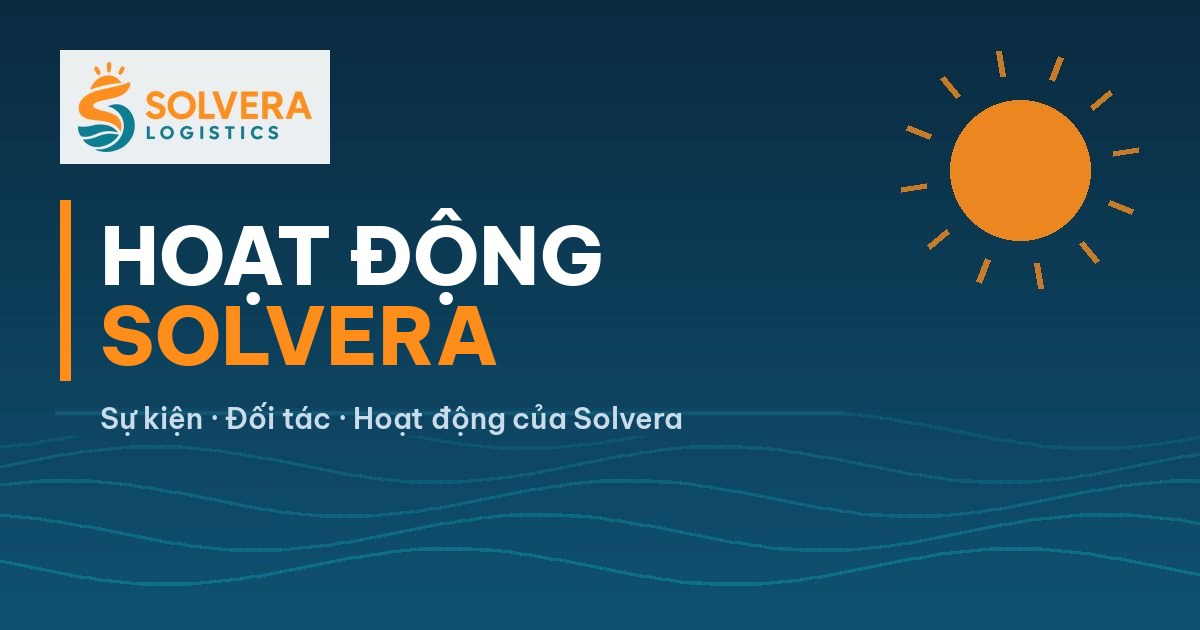
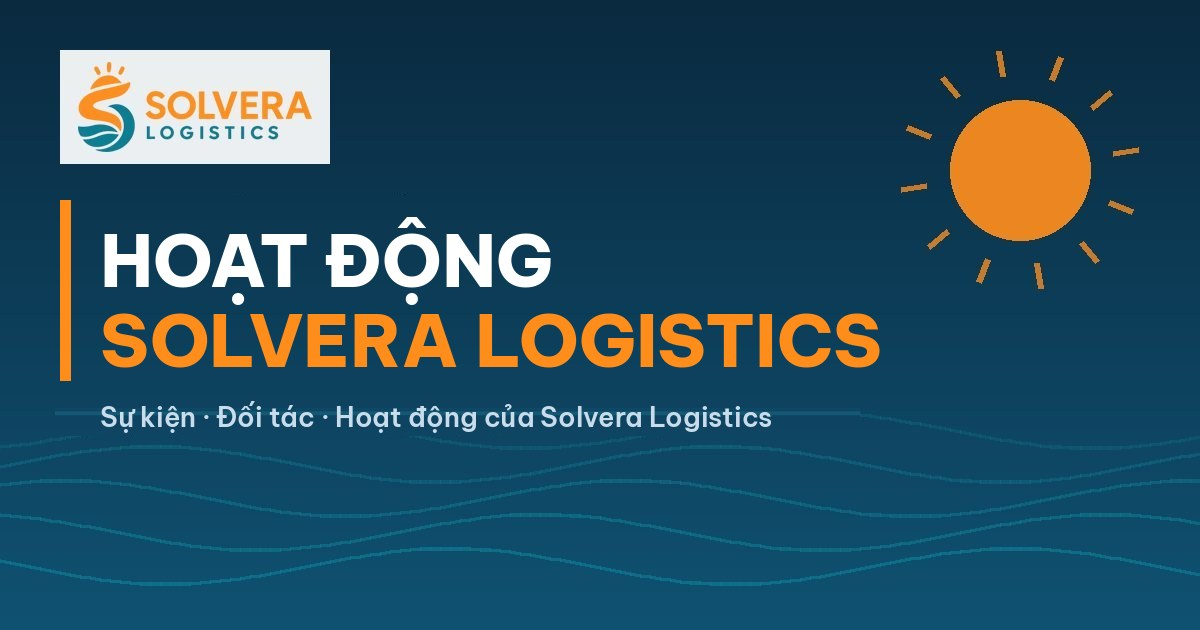
Đổi tên Hoạt động Solvera Logistics; tab không dùng button
Claude-Session: https://claude.ai/code/session_01NVn3NmvN1pAg3RWjpuaQYV

Changed region(s): [[0.0617, 0.3317, 0.74, 0.6032], [0.0925, 0.6333, 0.6475, 0.6937]]

diff --git a/index.html b/index.html
@@ -39,7 +39,7 @@ footer{border-top:4px solid var(--orange)}
 @media(max-width:700px){.lt{flex-direction:column}.lt img{width:100%;min-height:0;height:170px}.lt .in{padding:18px}.lt h2{font-size:22px}.tabs{overflow-x:auto;flex-wrap:nowrap}.tab{white-space:nowrap}}
 
 .hero2{background:linear-gradient(135deg,#0a2a40 0%,#0f4a63 100%);color:#fff;border-bottom:4px solid var(--orange)}.hero2 .hw{max-width:1100px;margin:auto;padding:40px 20px 36px}.hero2 .eb{color:var(--orange);font-weight:700;letter-spacing:.14em;text-transform:uppercase;font-size:13px}.hero2 h1{margin:6px 0 8px;font-size:clamp(28px,5vw,42px);line-height:1.15;font-weight:800;color:#fff}.hero2 p{margin:0;color:#c8dde5;font-size:17px;max-width:640px}
-.tabs{max-width:1100px;margin:22px auto 0;padding:0 20px;display:flex;gap:8px;flex-wrap:wrap}.tab{font:600 14px 'Be Vietnam Pro',sans-serif;border:1.5px solid #cfdde3;background:#fff;color:var(--navy);border-radius:999px;padding:8px 16px;cursor:pointer}.tab i{font-style:normal;color:var(--teal);margin-left:4px}.tab.on{background:var(--navy);border-color:var(--navy);color:#fff}.tab.on i{color:var(--orange)}
+.tabs{max-width:1100px;margin:22px auto 0;padding:0 20px;display:flex;gap:8px;flex-wrap:wrap}.tab{font:600 14px 'Be Vietnam Pro',sans-serif;border:1.5px solid #cfdde3;background:#fff;color:var(--navy);border-radius:999px;padding:8px 16px;cursor:pointer;display:inline-block}.tab i{font-style:normal;color:var(--teal);margin-left:4px}.tab.on{background:var(--navy);border-color:var(--navy);color:#fff}.tab.on i{color:var(--orange)}
 .grid2{max-width:1100px;margin:auto;padding:20px 20px 56px;display:grid;grid-template-columns:repeat(auto-fill,minmax(320px,1fr));gap:22px}.grid2 .card.big{grid-column:1/-1;flex-direction:row}.grid2 .card.big img{width:46%;height:auto;min-height:260px}.grid2 .card.big .in{padding:26px 28px;display:flex;flex-direction:column;justify-content:center}.grid2 .card.big h2{font-size:26px}
 .grid2 .card{display:flex;flex-direction:column;border:1px solid #e3ecef;box-shadow:0 1px 3px rgba(10,42,64,.06)}.grid2 .card img{height:180px;width:100%;object-fit:cover}.grid2 .card h2{display:-webkit-box;-webkit-line-clamp:3;-webkit-box-orient:vertical;overflow:hidden}.grid2 .card p{display:-webkit-box;-webkit-line-clamp:3;-webkit-box-orient:vertical;overflow:hidden}.grid2 .card .in{flex:1;display:flex;flex-direction:column}.foot{margin-top:auto;padding-top:14px;display:flex;justify-content:space-between;align-items:center;border-top:1px solid #eef2f4}.dt{font-size:13px;color:var(--mut)}.foot .more{margin:0}
 .grid2 .tag{align-self:flex-start}.empty{grid-column:1/-1;border:2px dashed #b9d3db;border-radius:12px;background:#fff;padding:28px;text-align:center;color:var(--mut)}.empty b{display:block;color:var(--navy);font-size:20px;margin-bottom:6px}
@@ -52,6 +52,6 @@ footer{background:var(--navy);color:#cfd8e3;text-align:center;padding:22px 16px;
 </style></head><body>
 <header><div class="bar"><a class="brand" href="/"><img src="/images/logo.png" alt="Solvera Logistics" style="height:40px;display:block"><span>News</span></a>
 <style>.soc{display:flex;gap:6px;align-items:center;margin-left:auto;margin-right:12px}.soc a{width:32px;height:32px;border-radius:50%;border:1.5px solid #0b7e93;display:flex;align-items:center;justify-content:center;color:#0b7e93;fill:#0b7e93;text-decoration:none}.soc a b{font:700 9px "Be Vietnam Pro",sans-serif}.soc a:hover{background:#0b7e93;color:#fff;fill:#fff}.svtop div,header .bar{flex-wrap:wrap;row-gap:8px}.lang{position:relative;margin-right:12px}.lang summary{list-style:none;cursor:pointer;font:600 13px "Be Vietnam Pro",sans-serif;color:#0b7e93;border:1.5px solid #0b7e93;border-radius:999px;padding:4px 10px;white-space:nowrap}.lang summary::-webkit-details-marker{display:none}.lang .lm{position:absolute;right:0;top:calc(100% + 6px);background:#fff;border-radius:10px;box-shadow:0 4px 16px rgba(0,0,0,.18);padding:6px;display:flex;flex-direction:column;gap:2px;z-index:50;min-width:110px}.lang .lm a{border:0;border-radius:6px;padding:8px 12px}.lang a{font:600 13px "Be Vietnam Pro",sans-serif;color:#0b7e93;border:1.5px solid #0b7e93;border-radius:999px;padding:4px 10px;text-decoration:none;white-space:nowrap}.lang a:hover{background:#0b7e93;color:#fff}.src,.src li{color:#0b7e93!important;font-style:italic}.src li::marker{color:#ff8d1c}.goog-te-banner-frame,#goog-gt-tt{display:none!important}body{top:0!important}@media(max-width:560px){.back,.bk{order:1;padding:4px 8px!important;font-size:12px!important;margin-left:auto}.soc{order:2;margin:0 6px 0 0}.soc a{width:28px;height:28px}.lang{order:3;margin:0}.lang summary{padding:3px 8px;font-size:12px}}</style><span class="soc notranslate" translate="no"><a href="https://zalo.me/2938397457262576692" target="_blank" rel="noopener" aria-label="Zalo" title="Zalo"><b>Zalo</b></a><a href="https://www.facebook.com/share/1CQrtY27t4/?mibextid=wwXIfr" target="_blank" rel="noopener" aria-label="Facebook" title="Facebook"><svg viewBox="0 0 24 24" width="16" height="16"><path d="M24 12.07C24 5.4 18.63 0 12 0S0 5.4 0 12.07C0 18.1 4.39 23.1 10.13 24v-8.44H7.08v-3.49h3.05V9.41c0-3.02 1.8-4.7 4.54-4.7 1.31 0 2.68.24 2.68.24v2.97h-1.5c-1.5 0-1.96.93-1.96 1.89v2.26h3.33l-.53 3.49h-2.8V24C19.61 23.1 24 18.1 24 12.07z"/></svg></a><a href="https://www.linkedin.com/company/solvera-logistics/" target="_blank" rel="noopener" aria-label="LinkedIn" title="LinkedIn"><svg viewBox="0 0 24 24" width="16" height="16"><path d="M20.45 20.45h-3.56v-5.57c0-1.33-.03-3.04-1.85-3.04-1.85 0-2.14 1.45-2.14 2.94v5.67H9.35V9h3.41v1.56h.05c.48-.9 1.64-1.85 3.37-1.85 3.6 0 4.27 2.37 4.27 5.46v6.28zM5.34 7.43a2.06 2.06 0 1 1 0-4.12 2.06 2.06 0 0 1 0 4.12zM7.12 20.45H3.56V9h3.56v11.45z"/></svg></a><a href="https://www.tiktok.com/@solveralogistics" target="_blank" rel="noopener" aria-label="TikTok" title="TikTok"><svg viewBox="0 0 24 24" width="16" height="16"><path d="M12.53.02C13.84 0 15.14.01 16.44 0c.08 1.53.63 3.09 1.75 4.17 1.12 1.11 2.7 1.62 4.24 1.79v4.03c-1.44-.05-2.89-.35-4.2-.97-.57-.26-1.1-.59-1.62-.93-.01 2.92.01 5.84-.02 8.75-.08 1.4-.54 2.79-1.35 3.94-1.31 1.92-3.58 3.17-5.91 3.21-1.43.08-2.86-.31-4.08-1.03-2.02-1.19-3.44-3.37-3.65-5.71-.02-.5-.03-1-.01-1.49.18-1.9 1.12-3.72 2.58-4.96 1.66-1.44 3.98-2.13 6.15-1.72.02 1.48-.04 2.96-.04 4.44-.99-.32-2.15-.23-3.02.37-.63.41-1.11 1.04-1.36 1.75-.21.51-.15 1.07-.14 1.61.24 1.64 1.82 3.02 3.5 2.87 1.12-.01 2.19-.66 2.77-1.61.19-.33.4-.67.41-1.06.1-1.79.06-3.57.07-5.36.01-4.03-.01-8.05.02-12.07z"/></svg></a><a href="https://www.youtube.com/@SOLVERALOGISTICS" target="_blank" rel="noopener" aria-label="YouTube" title="YouTube"><svg viewBox="0 0 24 24" width="16" height="16"><path d="M23.5 6.2a3 3 0 0 0-2.1-2.1C19.5 3.6 12 3.6 12 3.6s-7.5 0-9.4.5A3 3 0 0 0 .5 6.2C0 8.1 0 12 0 12s0 3.9.5 5.8a3 3 0 0 0 2.1 2.1c1.9.5 9.4.5 9.4.5s7.5 0 9.4-.5a3 3 0 0 0 2.1-2.1c.5-1.9.5-5.8.5-5.8s0-3.9-.5-5.8zM9.6 15.6V8.4l6.2 3.6-6.2 3.6z"/></svg></a></span><details class="lang notranslate" translate="no"><summary>🌐 Language ▾</summary><div class="lm"><a id="l-vi" href="#">VI</a><a id="l-en" href="#">EN</a><a id="l-ja" href="#">日本語</a><a id="l-zh" href="#">中文</a></div></details><script>(function(){var q=new URLSearchParams(location.search);["_x_tr_sl","_x_tr_tl","_x_tr_hl","_x_tr_pto"].forEach(function(k){q.delete(k)});var s=q.toString(),b=location.pathname+(s?"?"+s:""),t="https://news-solveralogistics-vn.translate.goog"+b+(s?"&":"?");document.getElementById("l-vi").href="https://news.solveralogistics.vn"+b;document.getElementById("l-en").href=t+"_x_tr_sl=vi&_x_tr_tl=en&_x_tr_hl=en";document.getElementById("l-ja").href=t+"_x_tr_sl=vi&_x_tr_tl=ja&_x_tr_hl=ja";document.getElementById("l-zh").href=t+"_x_tr_sl=vi&_x_tr_tl=zh-CN&_x_tr_hl=zh-CN"})()</script><a class="back" href="https://solveralogistics.vn">← Main website</a></div></header>
-<div class="hero2"><div class="hw"><div class="eb">Solvera Logistics</div><h1>Solvera Logistics News</h1><p>Tin tức hàng hải, hàng không, logistics, Supply Chain và kinh doanh xuất nhập khẩu.</p></div></div><div class="tabs"><button class="tab on" data-f="0">Tin tức đầu tuần</button><button class="tab" data-f="1">Tin tức Nhật - Việt cuối tuần</button><button class="tab" data-f="2">Phân tích chuyên sâu</button><button class="tab" data-f="3">Hoạt động Solvera</button></div><div class="pn"><section class="panel" id="p0"><div class="ph"><h2>Tin tức đầu tuần</h2><p>Hàng hải · Hàng không · Xuất nhập khẩu</p><span>Phát hành sáng thứ Hai hằng tuần · 2 số đã phát hành</span></div><a class="lt" href="/ban-tin-tuan-2026-10-13/"><img src="/images/thumb-tuan.jpg" alt="" loading="lazy"><div class="in"><div class="bd"><span class="no">Số 02</span><span class="new">MỚI NHẤT</span></div><h2>Kỳ 06–13/10/2026</h2><div class="sub">Phát hành 13/10/2026</div><div class="hl">Tin chính</div><ul><li>Xeneta: cước Viễn Đông–Bắc Âu giảm 34% từ đỉnh tháng 7, nhưng “chưa chạm đáy”</li><li>Hải Phòng: năm 2026 là năm đầu 6 bến nước sâu Lạch Huyện khai thác đầy đủ, mục tiêu 9,1 triệu TEU</li><li>Xeneta: hàng không tháng 9 tăng 6%, cước bình quân 3,10 USD/kg (+27% so với cùng kỳ)</li></ul><span class="more">Đọc bản tin →</span></div></a><h3 class="oh">Các số trước</h3><div class="rows"><a class="rw" href="/ban-tin-tuan-2026-10-08/"><span class="no">Số 01</span><span class="pr"><b>Kỳ 01–08/10/2026</b><em>Drewry WCI giảm 1% còn 4.434 USD/FEU, cước Á–Âu giảm tuần thứ 12 liên tiếp</em></span><span class="more">Đọc →</span></a></div></section><section class="panel" id="p1" hidden><div class="ph"><h2>Tin tức Nhật - Việt cuối tuần</h2><p>Vận tải · Logistics · Chuỗi cung ứng tuyến Nhật – Việt</p><span>Phát hành sáng thứ Bảy hằng tuần · 1 số đã phát hành</span></div><a class="lt" href="/ban-tin-nhat-viet-2026-10-10/"><img src="/images/thumb-nhatviet.jpg" alt="" loading="lazy"><div class="in"><div class="bd"><span class="no">Số 01</span><span class="new">MỚI NHẤT</span></div><h2>Kỳ 10/10/2026</h2><div class="sub">Phát hành 10/10/2026</div><div class="hl">Tin chính</div><ul><li>Cước nội Á lập đỉnh lịch sử tuần thứ 6 liên tiếp: Thượng Hải – TP.HCM lên 1.377 USD/FEU</li><li>Cước Á–Âu giảm 13 tuần liên tiếp; hãng tàu tính tăng giá FAK nửa cuối tháng 10</li><li>OOCL: doanh thu quý 3/2026 tăng 45%, mảng nội Á đạt 947,6 triệu USD</li></ul><span class="more">Đọc bản tin →</span></div></a></section><section class="panel" id="p2" hidden><div class="ph"><h2>Phân tích chuyên sâu</h2><p>Góc nhìn chuyên gia Solvera Logistics</p><span>Cập nhật theo chủ đề · 1 số đã phát hành</span></div><a class="lt" href="/kenh-dao-binh-luc-nam-ninh-can-tho/"><img src="images/binh-luc.jpg" alt="" loading="lazy"><div class="in"><div class="bd"><span class="no">Số 01</span><span class="new">MỚI NHẤT</span></div><h2>Kỳ 13/10/2026</h2><div class="sub">Phát hành 13/10/2026</div><div class="hl">Tin chính</div><ul><li>Bài toán nghẽn cổ chai của vùng Tây Nam Trung Quốc</li><li>Những con số đáng chú ý</li><li>Ý nghĩa chiến lược với Trung Quốc</li></ul><span class="more">Đọc bản tin →</span></div></a></section><section class="panel" id="p3" hidden><div class="ph"><h2>Hoạt động Solvera</h2><p>Sự kiện · Đối tác · Hoạt động của Solvera Logistics</p><span>Cập nhật khi có hoạt động mới · 0 số đã phát hành</span></div><div class="empty"><b>Sắp ra mắt</b><p>Hình ảnh, sự kiện và hoạt động của Solvera Logistics sẽ được cập nhật tại đây.</p></div></section></div><script>function sel(k){document.querySelectorAll(".tab").forEach(function(x){x.classList.toggle("on",x.dataset.f==k)});document.querySelectorAll(".panel").forEach(function(p){p.hidden=p.id!="p"+k})}var m=location.hash.match(/#c(\d)/);if(m)sel(m[1]);document.querySelectorAll(".tab").forEach(function(t){t.onclick=function(){document.querySelectorAll(".tab").forEach(function(x){x.classList.remove("on")});t.classList.add("on");document.querySelectorAll(".panel").forEach(function(p){p.hidden=p.id!="p"+t.dataset.f})}})</script>
+<div class="hero2"><div class="hw"><div class="eb">Solvera Logistics</div><h1>Solvera Logistics News</h1><p>Tin tức hàng hải, hàng không, logistics, Supply Chain và kinh doanh xuất nhập khẩu.</p></div></div><div class="tabs"><span role="tab" tabindex="0" class="tab on" data-f="0">Tin tức đầu tuần</span><span role="tab" tabindex="0" class="tab" data-f="1">Tin tức Nhật - Việt cuối tuần</span><span role="tab" tabindex="0" class="tab" data-f="2">Phân tích chuyên sâu</span><span role="tab" tabindex="0" class="tab" data-f="3">Hoạt động Solvera Logistics</span></div><div class="pn"><section class="panel" id="p0"><div class="ph"><h2>Tin tức đầu tuần</h2><p>Hàng hải · Hàng không · Xuất nhập khẩu</p><span>Phát hành sáng thứ Hai hằng tuần · 2 số đã phát hành</span></div><a class="lt" href="/ban-tin-tuan-2026-10-13/"><img src="/images/thumb-tuan.jpg" alt="" loading="lazy"><div class="in"><div class="bd"><span class="no">Số 02</span><span class="new">MỚI NHẤT</span></div><h2>Kỳ 06–13/10/2026</h2><div class="sub">Phát hành 13/10/2026</div><div class="hl">Tin chính</div><ul><li>Xeneta: cước Viễn Đông–Bắc Âu giảm 34% từ đỉnh tháng 7, nhưng “chưa chạm đáy”</li><li>Hải Phòng: năm 2026 là năm đầu 6 bến nước sâu Lạch Huyện khai thác đầy đủ, mục tiêu 9,1 triệu TEU</li><li>Xeneta: hàng không tháng 9 tăng 6%, cước bình quân 3,10 USD/kg (+27% so với cùng kỳ)</li></ul><span class="more">Đọc bản tin →</span></div></a><h3 class="oh">Các số trước</h3><div class="rows"><a class="rw" href="/ban-tin-tuan-2026-10-08/"><span class="no">Số 01</span><span class="pr"><b>Kỳ 01–08/10/2026</b><em>Drewry WCI giảm 1% còn 4.434 USD/FEU, cước Á–Âu giảm tuần thứ 12 liên tiếp</em></span><span class="more">Đọc →</span></a></div></section><section class="panel" id="p1" hidden><div class="ph"><h2>Tin tức Nhật - Việt cuối tuần</h2><p>Vận tải · Logistics · Chuỗi cung ứng tuyến Nhật – Việt</p><span>Phát hành sáng thứ Bảy hằng tuần · 1 số đã phát hành</span></div><a class="lt" href="/ban-tin-nhat-viet-2026-10-10/"><img src="/images/thumb-nhatviet.jpg" alt="" loading="lazy"><div class="in"><div class="bd"><span class="no">Số 01</span><span class="new">MỚI NHẤT</span></div><h2>Kỳ 10/10/2026</h2><div class="sub">Phát hành 10/10/2026</div><div class="hl">Tin chính</div><ul><li>Cước nội Á lập đỉnh lịch sử tuần thứ 6 liên tiếp: Thượng Hải – TP.HCM lên 1.377 USD/FEU</li><li>Cước Á–Âu giảm 13 tuần liên tiếp; hãng tàu tính tăng giá FAK nửa cuối tháng 10</li><li>OOCL: doanh thu quý 3/2026 tăng 45%, mảng nội Á đạt 947,6 triệu USD</li></ul><span class="more">Đọc bản tin →</span></div></a></section><section class="panel" id="p2" hidden><div class="ph"><h2>Phân tích chuyên sâu</h2><p>Góc nhìn chuyên gia Solvera Logistics</p><span>Cập nhật theo chủ đề · 1 số đã phát hành</span></div><a class="lt" href="/kenh-dao-binh-luc-nam-ninh-can-tho/"><img src="images/binh-luc.jpg" alt="" loading="lazy"><div class="in"><div class="bd"><span class="no">Số 01</span><span class="new">MỚI NHẤT</span></div><h2>Kỳ 13/10/2026</h2><div class="sub">Phát hành 13/10/2026</div><div class="hl">Tin chính</div><ul><li>Bài toán nghẽn cổ chai của vùng Tây Nam Trung Quốc</li><li>Những con số đáng chú ý</li><li>Ý nghĩa chiến lược với Trung Quốc</li></ul><span class="more">Đọc bản tin →</span></div></a></section><section class="panel" id="p3" hidden><div class="ph"><h2>Hoạt động Solvera Logistics</h2><p>Sự kiện · Đối tác · Hoạt động của Solvera Logistics</p><span>Cập nhật khi có hoạt động mới · 0 số đã phát hành</span></div><div class="empty"><b>Sắp ra mắt</b><p>Các bài phân tích chuyên gia của Solvera Logistics về hàng hải, hàng không, xuất nhập khẩu và chuỗi cung ứng sẽ được đăng tại đây.</p></div></section></div><script>function sel(k){document.querySelectorAll(".tab").forEach(function(x){x.classList.toggle("on",x.dataset.f==k)});document.querySelectorAll(".panel").forEach(function(p){p.hidden=p.id!="p"+k})}var m=location.hash.match(/#c(\d)/);if(m)sel(m[1]);document.querySelectorAll(".tab").forEach(function(t){t.onclick=function(){document.querySelectorAll(".tab").forEach(function(x){x.classList.remove("on")});t.classList.add("on");document.querySelectorAll(".panel").forEach(function(p){p.hidden=p.id!="p"+t.dataset.f})}})</script>
 <footer>© Solvera Logistics Co., Ltd · <a href="https://solveralogistics.vn">solveralogistics.vn</a> · Hanoi</footer>
 </body></html>

diff --git a/build.py b/build.py
@@ -45,7 +45,7 @@ footer{border-top:4px solid var(--orange)}
 @media(max-width:700px){.lt{flex-direction:column}.lt img{width:100%;min-height:0;height:170px}.lt .in{padding:18px}.lt h2{font-size:22px}.tabs{overflow-x:auto;flex-wrap:nowrap}.tab{white-space:nowrap}}
 
 .hero2{background:linear-gradient(135deg,#0a2a40 0%,#0f4a63 100%);color:#fff;border-bottom:4px solid var(--orange)}.hero2 .hw{max-width:1100px;margin:auto;padding:40px 20px 36px}.hero2 .eb{color:var(--orange);font-weight:700;letter-spacing:.14em;text-transform:uppercase;font-size:13px}.hero2 h1{margin:6px 0 8px;font-size:clamp(28px,5vw,42px);line-height:1.15;font-weight:800;color:#fff}.hero2 p{margin:0;color:#c8dde5;font-size:17px;max-width:640px}
-.tabs{max-width:1100px;margin:22px auto 0;padding:0 20px;display:flex;gap:8px;flex-wrap:wrap}.tab{font:600 14px 'Be Vietnam Pro',sans-serif;border:1.5px solid #cfdde3;background:#fff;color:var(--navy);border-radius:999px;padding:8px 16px;cursor:pointer}.tab i{font-style:normal;color:var(--teal);margin-left:4px}.tab.on{background:var(--navy);border-color:var(--navy);color:#fff}.tab.on i{color:var(--orange)}
+.tabs{max-width:1100px;margin:22px auto 0;padding:0 20px;display:flex;gap:8px;flex-wrap:wrap}.tab{font:600 14px 'Be Vietnam Pro',sans-serif;border:1.5px solid #cfdde3;background:#fff;color:var(--navy);border-radius:999px;padding:8px 16px;cursor:pointer;display:inline-block}.tab i{font-style:normal;color:var(--teal);margin-left:4px}.tab.on{background:var(--navy);border-color:var(--navy);color:#fff}.tab.on i{color:var(--orange)}
 .grid2{max-width:1100px;margin:auto;padding:20px 20px 56px;display:grid;grid-template-columns:repeat(auto-fill,minmax(320px,1fr));gap:22px}.grid2 .card.big{grid-column:1/-1;flex-direction:row}.grid2 .card.big img{width:46%;height:auto;min-height:260px}.grid2 .card.big .in{padding:26px 28px;display:flex;flex-direction:column;justify-content:center}.grid2 .card.big h2{font-size:26px}
 .grid2 .card{display:flex;flex-direction:column;border:1px solid #e3ecef;box-shadow:0 1px 3px rgba(10,42,64,.06)}.grid2 .card img{height:180px;width:100%;object-fit:cover}.grid2 .card h2{display:-webkit-box;-webkit-line-clamp:3;-webkit-box-orient:vertical;overflow:hidden}.grid2 .card p{display:-webkit-box;-webkit-line-clamp:3;-webkit-box-orient:vertical;overflow:hidden}.grid2 .card .in{flex:1;display:flex;flex-direction:column}.foot{margin-top:auto;padding-top:14px;display:flex;justify-content:space-between;align-items:center;border-top:1px solid #eef2f4}.dt{font-size:13px;color:var(--mut)}.foot .more{margin:0}
 .grid2 .tag{align-self:flex-start}.empty{grid-column:1/-1;border:2px dashed #b9d3db;border-radius:12px;background:#fff;padding:28px;text-align:center;color:var(--mut)}.empty b{display:block;color:var(--navy);font-size:20px;margin-bottom:6px}
@@ -81,7 +81,7 @@ def trunc(x, n):
     return x if len(x) <= n else x[:n-1].rsplit(" ", 1)[0].rstrip(",;:–-") + "…"
 
 def full_page(p):
-    ci = {"Tin tức đầu tuần": 0, "Tin tức Nhật - Việt cuối tuần": 1, "Phân tích chuyên sâu": 2, "Hoạt động Solvera": 3}.get(p["category"], 0)
+    ci = {"Tin tức đầu tuần": 0, "Tin tức Nhật - Việt cuối tuần": 1, "Phân tích chuyên sâu": 2, "Hoạt động Solvera Logistics": 3}.get(p["category"], 0)
     bcss = "<style>.bc{display:flex;gap:8px;align-items:center;flex-wrap:wrap;margin:18px 0 6px;font:600 14px 'Be Vietnam Pro',sans-serif;color:#6b7a8a}.bc a{color:#0b7e93;text-decoration:none}.bc a.home,.bc a.cat{background:#0b7e93;color:#fff;padding:7px 14px;border-radius:999px}.bc a.home:hover,.bc a.cat:hover{background:#0a2a40}.bc i{font-style:normal;color:#9fb0bb}.backbtn{display:inline-block;margin:28px 0 8px;padding:12px 20px;border:1.5px solid #0b7e93;border-radius:8px;color:#0b7e93;font-weight:700;text-decoration:none}.backbtn:hover{background:#0b7e93;color:#fff}</style>"
     bc = bcss + f'<nav class="bc"><a class="home" href="/">← Trang chủ</a><i>›</i><a class="cat" href="/#c{ci}">{html.escape(p["category"])}</a><i>›</i><span>{p["date"][8:]}/{p["date"][5:7]}/{p["date"][:4]}</span></nav>'
     mast = re.sub(r'(<div class="eyebrow">)[^<]*', lambda m: m.group(1) + "Solvera Logistics · " + html.escape(p["category"]), p["mast_html"], count=1)
@@ -116,11 +116,11 @@ def main():
     (OUT / "CNAME").write_text(DOMAIN)
     (OUT / ".nojekyll").write_text("")
 
-    TH = {"Tin tức đầu tuần": "/images/thumb-tuan.jpg", "Tin tức Nhật - Việt cuối tuần": "/images/thumb-nhatviet.jpg", "Phân tích chuyên sâu": "/images/thumb-phantich.jpg", "Hoạt động Solvera": "/images/thumb-hoatdong.jpg"}
+    TH = {"Tin tức đầu tuần": "/images/thumb-tuan.jpg", "Tin tức Nhật - Việt cuối tuần": "/images/thumb-nhatviet.jpg", "Phân tích chuyên sâu": "/images/thumb-phantich.jpg", "Hoạt động Solvera Logistics": "/images/thumb-hoatdong.jpg"}
     INFO = {"Tin tức đầu tuần": ("Hàng hải · Hàng không · Xuất nhập khẩu", "Phát hành sáng thứ Hai hằng tuần"),
             "Tin tức Nhật - Việt cuối tuần": ("Vận tải · Logistics · Chuỗi cung ứng tuyến Nhật – Việt", "Phát hành sáng thứ Bảy hằng tuần"),
             "Phân tích chuyên sâu": ("Góc nhìn chuyên gia Solvera Logistics", "Cập nhật theo chủ đề"),
-            "Hoạt động Solvera": ("Sự kiện · Đối tác · Hoạt động của Solvera Logistics", "Cập nhật khi có hoạt động mới")}
+            "Hoạt động Solvera Logistics": ("Sự kiện · Đối tác · Hoạt động của Solvera Logistics", "Cập nhật khi có hoạt động mới")}
     CATS = list(INFO)
     def meta(p, n):
         pr = re.search(r"\d{2}[–-]\d{2}/\d{2}/\d{4}|\d{2}/\d{2}/\d{4}", p["title"])
@@ -139,7 +139,7 @@ def main():
         ps = sorted([p for p in posts if p["category"] == c], key=lambda x: x["date"])
         mts = {p["slug"]: meta(p, n + 1) for n, p in enumerate(ps)}
         ps = ps[::-1]
-        tabs += f'<button class="tab{" on" if k == 0 else ""}" data-f="{k}">{html.escape(c)}</button>'
+        tabs += f'<span role="tab" tabindex="0" class="tab{" on" if k == 0 else ""}" data-f="{k}">{html.escape(c)}</span>'
         head = f'<div class="ph"><h2>{html.escape(c)}</h2><p>{INFO[c][0]}</p><span>{INFO[c][1]} · {len(ps)} số đã phát hành</span></div>'
         if ps:
             body = latest(ps[0], mts[ps[0]["slug"]]) + ('<h3 class="oh">Các số trước</h3><div class="rows">' + "".join(row(p, mts[p["slug"]]) for p in ps[1:]) + "</div>" if len(ps) > 1 else "")
